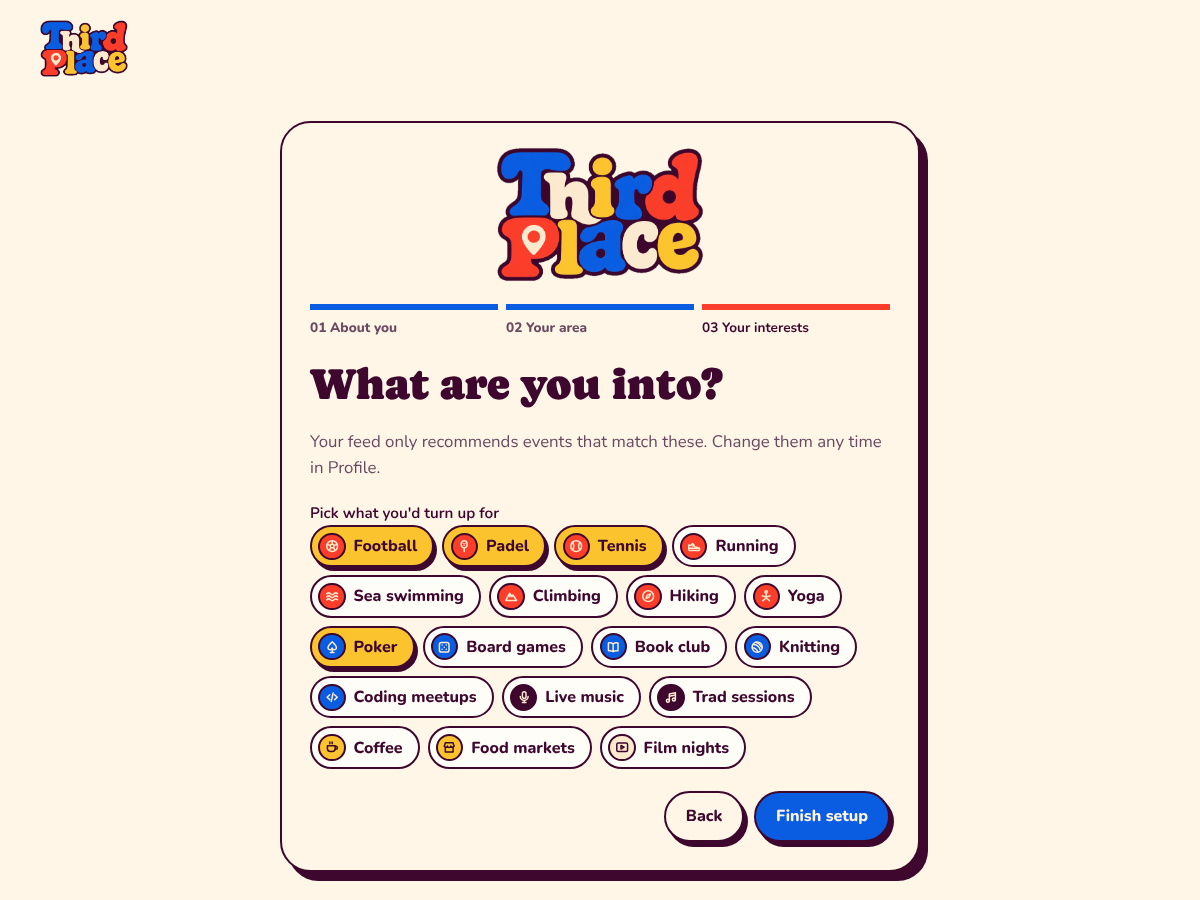
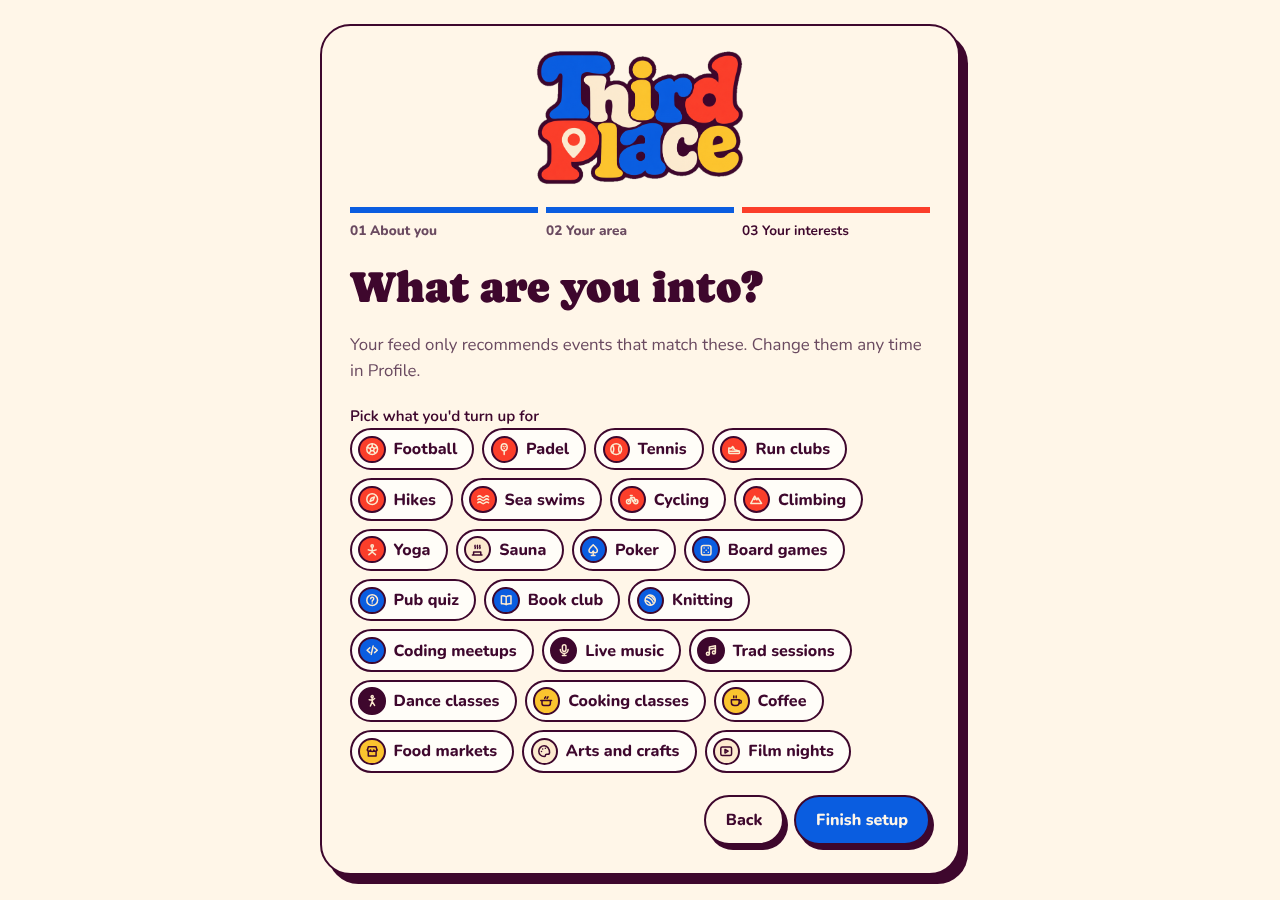
feat: more interests and areas, shared by profile, discovery and create-event
Adds run clubs, hikes, sea swims, cycling, sauna, cooking classes, pub quiz,
dance classes and arts and crafts, and lines up the interest and area lists
so Create an event, the feed filters, onboarding and Profile all offer the
same 24 interests. Create an event and search now offer 16 areas, including
every area a profile can choose. Adds eight sample events for the new
interests and an icon for each new one.

Claude-Session: https://claude.ai/code/session_01TSpLLcjMmNwyMasHSNnUNU

Changed region(s): [[0.2467, 0.0311, 0.7708, 0.9956], [0.0308, 0.0, 0.1233, 0.0933], [0.2467, 0.1244, 0.2775, 0.1556]]

diff --git a/apps/web/src/features/events/syntheticData.ts b/apps/web/src/features/events/syntheticData.ts
@@ -81,6 +81,54 @@ const seeds: Seed[] = [
     description: "Bring a book you loved, leave with one you will. Blankets on the lawn.",
     category: "other", area: "Donnybrook", locationName: "Herbert Park Lawn",
     priceEur: 0, capacity: 20, attendeeCount: 9, hostName: "Maeve T."
+  },
+  {
+    id: "saturday-run-club", inHours: 20, title: "Saturday run club, 5 km", interest: "run clubs",
+    description: "Easy conversational pace along the canal, with a coffee stop after. Nobody gets left behind.",
+    category: "sport", area: "Portobello", locationName: "Portobello Harbour",
+    priceEur: 0, capacity: 20, attendeeCount: 11, hostName: "Ciara D."
+  },
+  {
+    id: "howth-cliff-hike", inHours: 44, title: "Howth cliff path hike", interest: "hikes",
+    description: "The 6 km loop with sea views. Wear proper shoes and bring a rain jacket.",
+    category: "sport", area: "Howth", locationName: "Howth DART Station",
+    priceEur: 0, capacity: 12, attendeeCount: 7, hostName: "Liam O."
+  },
+  {
+    id: "sunrise-sea-swim", inHours: 19, title: "Sunrise sea swim", interest: "sea swims",
+    description: "A quick dip at high tide, then flasks of tea. Stay within your depth; beginners pair up.",
+    category: "sport", area: "Dún Laoghaire", locationName: "Seapoint bathing area",
+    priceEur: 0, capacity: 15, attendeeCount: 9, hostName: "Orla F."
+  },
+  {
+    id: "sauna-and-plunge", inHours: 30, title: "Sauna and cold plunge social", interest: "sauna",
+    description: "A booked group session in a wood-fired sauna by the water. Bring a towel and flip-flops.",
+    category: "other", area: "Clontarf", locationName: "Clontarf Seafront Sauna",
+    priceEur: 12, capacity: 8, attendeeCount: 5, hostName: "Marta W."
+  },
+  {
+    id: "pasta-cooking-class", inHours: 54, title: "Fresh pasta cooking class", interest: "cooking classes",
+    description: "Make two pasta shapes and a sauce from scratch, then eat together. Ingredients included.",
+    category: "food", area: "Stoneybatter", locationName: "Stoneybatter Community Kitchen",
+    priceEur: 18, capacity: 10, attendeeCount: 6, hostName: "Paolo G."
+  },
+  {
+    id: "slow-coffee-morning", inHours: 26, title: "Slow coffee morning", interest: "coffee",
+    description: "One big table, no laptops. Turn up on your own and chat to whoever sits beside you.",
+    category: "food", area: "Rathmines", locationName: "Rathmines Corner Café",
+    priceEur: 0, capacity: 12, attendeeCount: 4, hostName: "Grace N."
+  },
+  {
+    id: "tuesday-pub-quiz", inHours: 58, title: "Tuesday pub quiz, join a team", interest: "pub quiz",
+    description: "Come solo and we'll put you on a team of four. General knowledge with a music round.",
+    category: "social", area: "Dublin city centre", locationName: "Back room, city centre pub",
+    priceEur: 5, capacity: 24, attendeeCount: 13, hostName: "Fionn T."
+  },
+  {
+    id: "phoenix-park-cycle", inHours: 68, title: "Phoenix Park social cycle", interest: "cycling",
+    description: "A relaxed 20 km loop on quiet roads at chatting pace. Any bike is fine; helmets on.",
+    category: "sport", area: "Stoneybatter", locationName: "Park gate, Stoneybatter side",
+    priceEur: 0, capacity: 14, attendeeCount: 6, hostName: "Ruth A."
   }
 ];
 

diff --git a/apps/web/src/features/preferences/interests.ts b/apps/web/src/features/preferences/interests.ts
@@ -7,22 +7,42 @@ export const INTERESTS: Interest[] = [
   { id: "football", label: "Football", category: "sport" },
   { id: "padel", label: "Padel", category: "sport" },
   { id: "tennis", label: "Tennis", category: "sport" },
-  { id: "running", label: "Running", category: "sport" },
-  { id: "sea-swimming", label: "Sea swimming", category: "sport" },
+  { id: "running", label: "Run clubs", category: "sport" },
+  { id: "hiking", label: "Hikes", category: "sport" },
+  { id: "sea-swimming", label: "Sea swims", category: "sport" },
+  { id: "cycling", label: "Cycling", category: "sport" },
   { id: "climbing", label: "Climbing", category: "sport" },
-  { id: "hiking", label: "Hiking", category: "sport" },
   { id: "yoga", label: "Yoga", category: "sport" },
+  { id: "sauna", label: "Sauna", category: "other" },
   { id: "poker", label: "Poker", category: "social" },
   { id: "board-games", label: "Board games", category: "social" },
+  { id: "pub-quiz", label: "Pub quiz", category: "social" },
   { id: "book-club", label: "Book club", category: "social" },
   { id: "knitting", label: "Knitting", category: "social" },
   { id: "coding", label: "Coding meetups", category: "social" },
   { id: "live-music", label: "Live music", category: "music" },
   { id: "trad-sessions", label: "Trad sessions", category: "music" },
+  { id: "dance", label: "Dance classes", category: "music" },
+  { id: "cooking-classes", label: "Cooking classes", category: "food" },
   { id: "coffee", label: "Coffee", category: "food" },
   { id: "food-markets", label: "Food markets", category: "food" },
+  { id: "arts-crafts", label: "Arts and crafts", category: "other" },
   { id: "film", label: "Film nights", category: "other" }
 ];
+
+/**
+ * The events feature names interests by their lower-case label ("run clubs"), with two
+ * older exceptions. These helpers translate between a profile interest id and that name.
+ */
+const DISCOVERY_NAME_OVERRIDES: Record<string, string> = { "book-club": "books" };
+
+export function toDiscoveryInterest(id: string): string {
+  return DISCOVERY_NAME_OVERRIDES[id] ?? (INTERESTS.find((interest) => interest.id === id)?.label.toLowerCase() ?? id);
+}
+
+export function fromDiscoveryInterest(name: string): string {
+  return INTERESTS.find((interest) => toDiscoveryInterest(interest.id) === name)?.id ?? name;
+}
 
 export function interestLabel(id: string): string {
   return INTERESTS.find((interest) => interest.id === id)?.label ?? id;

diff --git a/apps/web/src/App.tsx b/apps/web/src/App.tsx
@@ -5,7 +5,7 @@ import { setUserOrigin } from "./features/events/geo";
 import { INTERESTS as DISCOVERY_INTERESTS } from "./features/events/types";
 import { useEventsStore } from "./features/events/useEventsStore";
 import { EventPlanner } from "./features/planning/EventPlanner";
-import { AREAS } from "./features/preferences";
+import { AREAS, fromDiscoveryInterest, toDiscoveryInterest } from "./features/preferences";
 import { EndorsementScreen, Logo, MyEventsView, ProfileProvider, ProfileView, sampleMyEvents, useProfile, type MyEvent } from "./features/profile";
 import { ProfileApiSync } from "./integration/ProfileApiSync";
 import { BUSINESS_PORTAL_PATH } from "./features/business/paths";
@@ -26,9 +26,6 @@ function viewFromHash(): View {
   return [...mainViews.map((item) => item.id), "plan", ...discoveryRoutes].includes(first) ? first : "for-you";
 }
 
-/** Profile interest ids that are named differently in the discovery feature. */
-const PROFILE_TO_DISCOVERY_INTEREST: Record<string, string> = { "board-games": "board games", "live-music": "live music", "book-club": "books" };
-const DISCOVERY_TO_PROFILE_INTEREST: Record<string, string> = { "board games": "board-games", "live music": "live-music", books: "book-club" };
 const discoveryInterestNames: readonly string[] = DISCOVERY_INTERESTS;
 
 export function App() {
@@ -47,7 +44,7 @@ function AppContent() {
   const area = AREAS.find((item) => item.id === profile.areaId);
   if (area) setUserOrigin({ name: area.name, lat: area.lat, lng: area.lng });
   const preferences = useMemo(() => ({
-    interests: profile.interests.map((id) => PROFILE_TO_DISCOVERY_INTEREST[id] ?? id).filter((name) => discoveryInterestNames.includes(name)),
+    interests: profile.interests.map(toDiscoveryInterest).filter((name) => discoveryInterestNames.includes(name)),
     radiusKm: profile.radiusKm
   }), [profile.interests, profile.radiusKm]);
 
@@ -60,7 +57,7 @@ function AppContent() {
       startsAt: event.startsAt,
       locationName: `${event.locationName}, ${event.area}`,
       role: event.hostName === "You" ? "hosting" : "going",
-      interestId: DISCOVERY_TO_PROFILE_INTEREST[event.interest] ?? event.interest,
+      interestId: fromDiscoveryInterest(event.interest),
       attendeeCount: event.attendeeCount,
       attendees: []
     })),

diff --git a/apps/web/src/features/preferences/InterestIcon.tsx b/apps/web/src/features/preferences/InterestIcon.tsx
@@ -20,6 +20,12 @@ const PATHS: Record<string, ReactNode> = {
   "trad-sessions": <><path d="M9 18V6.5l10-2V16" /><circle cx="6.5" cy="18" r="2.5" /><circle cx="16.5" cy="16" r="2.5" /><path d="M9 10.5l10-2" /></>,
   coffee: <><path d="M4 9.5h13V14a5 5 0 01-5 5H9a5 5 0 01-5-5z" /><path d="M17 10.5h1.2a2.4 2.4 0 010 4.8H17M8 3.5v2.8M12 3.5v2.8" /></>,
   "food-markets": <><path d="M4 10l1.6-5.5h12.8L20 10" /><path d="M4 10a2.7 2.7 0 005.3 0 2.7 2.7 0 005.4 0 2.7 2.7 0 005.3 0" /><path d="M5.5 13.5V20h13v-6.5" /></>,
+  cycling: <><circle cx="6" cy="16" r="3.5" /><circle cx="18" cy="16" r="3.5" /><path d="M6 16l4-7h5l3 7M10 9l3.5 7M9 6h3" /></>,
+  sauna: <><path d="M4 20h16M6 20v-5h12v5" /><path d="M8.5 4c-1.4 2 1.4 3 0 5M12.5 4c-1.4 2 1.4 3 0 5M16.5 4c-1.4 2 1.4 3 0 5" /></>,
+  "cooking-classes": <><path d="M5 11h14v5a3 3 0 01-3 3H8a3 3 0 01-3-3zM3 11h18" /><path d="M9.5 7.5c0-1.5 1.5-1.5 1.5-3M13.5 7.5c0-1.5 1.5-1.5 1.5-3" /></>,
+  "pub-quiz": <><circle cx="12" cy="12" r="9" /><path d="M9.6 9.6a2.5 2.5 0 114 2c-.9.6-1.6 1.1-1.6 2.2M12 16.9h.01" /></>,
+  "arts-crafts": <><path d="M12 3a9 9 0 100 18c1.2 0 2-.9 2-2 0-1.4 1-2 2.2-2H18a3 3 0 003-3c0-6-4-11-9-11z" /><path d="M7.5 12.5h.01M9.5 8.2h.01M14 7.2h.01" /></>,
+  dance: <><circle cx="12" cy="4.5" r="1.8" /><path d="M12 7.5v5.5l-3 7M12 13l4 6M7 9.5l5 1 4-3" /></>,
   film: <><rect x="3" y="5" width="18" height="14" rx="2.5" /><path d="M10 9l5.2 3-5.2 3z" /></>
 };
 

diff --git a/apps/web/src/features/events/geo.ts b/apps/web/src/features/events/geo.ts
@@ -5,9 +5,18 @@ export const AREAS: Area[] = [
   { name: "Belfield", lat: 53.3067, lng: -6.2233 },
   { name: "Donnybrook", lat: 53.322, lng: -6.232 },
   { name: "Ranelagh", lat: 53.3262, lng: -6.2562 },
-  { name: "Sandyford", lat: 53.2776, lng: -6.22 },
+  { name: "Rathmines", lat: 53.322, lng: -6.265 },
+  { name: "Portobello", lat: 53.331, lng: -6.266 },
+  { name: "Ballsbridge", lat: 53.329, lng: -6.231 },
+  { name: "Dublin city centre", lat: 53.347, lng: -6.26 },
   { name: "Smithfield", lat: 53.3498, lng: -6.2778 },
+  { name: "Stoneybatter", lat: 53.352, lng: -6.285 },
   { name: "Phibsborough", lat: 53.359, lng: -6.274 },
+  { name: "Drumcondra", lat: 53.37, lng: -6.255 },
+  { name: "Clontarf", lat: 53.365, lng: -6.2 },
+  { name: "Dundrum", lat: 53.289, lng: -6.243 },
+  { name: "Sandyford", lat: 53.2776, lng: -6.22 },
+  { name: "Dún Laoghaire", lat: 53.294, lng: -6.134 },
   { name: "Howth", lat: 53.389, lng: -6.07 }
 ];
 

diff --git a/apps/web/src/features/events/types.ts b/apps/web/src/features/events/types.ts
@@ -71,13 +71,29 @@ export type NewEventDraft = {
 
 export const INTERESTS = [
   "football",
-  "poker",
   "padel",
   "tennis",
+  "run clubs",
+  "hikes",
+  "sea swims",
+  "cycling",
+  "climbing",
+  "yoga",
+  "sauna",
+  "poker",
   "board games",
-  "live music",
+  "pub quiz",
+  "books",
   "knitting",
-  "books"
+  "coding meetups",
+  "live music",
+  "trad sessions",
+  "dance classes",
+  "cooking classes",
+  "coffee",
+  "food markets",
+  "arts and crafts",
+  "film nights"
 ] as const;
 
 export const CATEGORY_LABELS: Record<DiscoveryEvent["category"], string> = {

diff --git a/apps/web/src/features/preferences/index.ts b/apps/web/src/features/preferences/index.ts
@@ -1,7 +1,7 @@
 export { InterestPicker } from "./InterestPicker";
 export { AreaRadiusPicker } from "./AreaRadiusPicker";
 export { AreaMap } from "./AreaMap";
-export { INTERESTS, interestLabel, interestCategory } from "./interests";
+export { INTERESTS, interestLabel, interestCategory, toDiscoveryInterest, fromDiscoveryInterest } from "./interests";
 export { InterestBadge, InterestIcon } from "./InterestIcon";
 export type { Interest } from "./interests";
 export { AREAS, areaName, nearestArea, locateApproximateArea, MIN_RADIUS_KM, MAX_RADIUS_KM } from "./areas";
